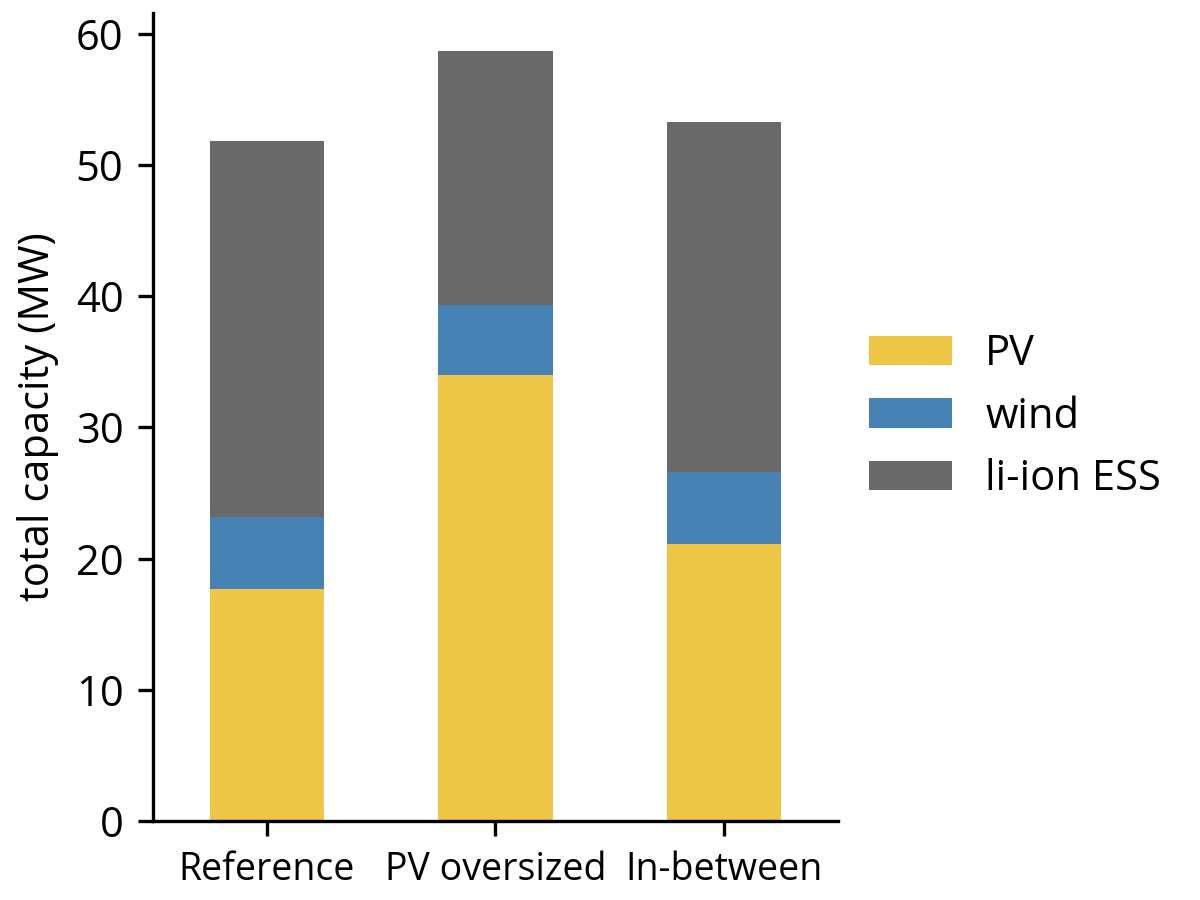
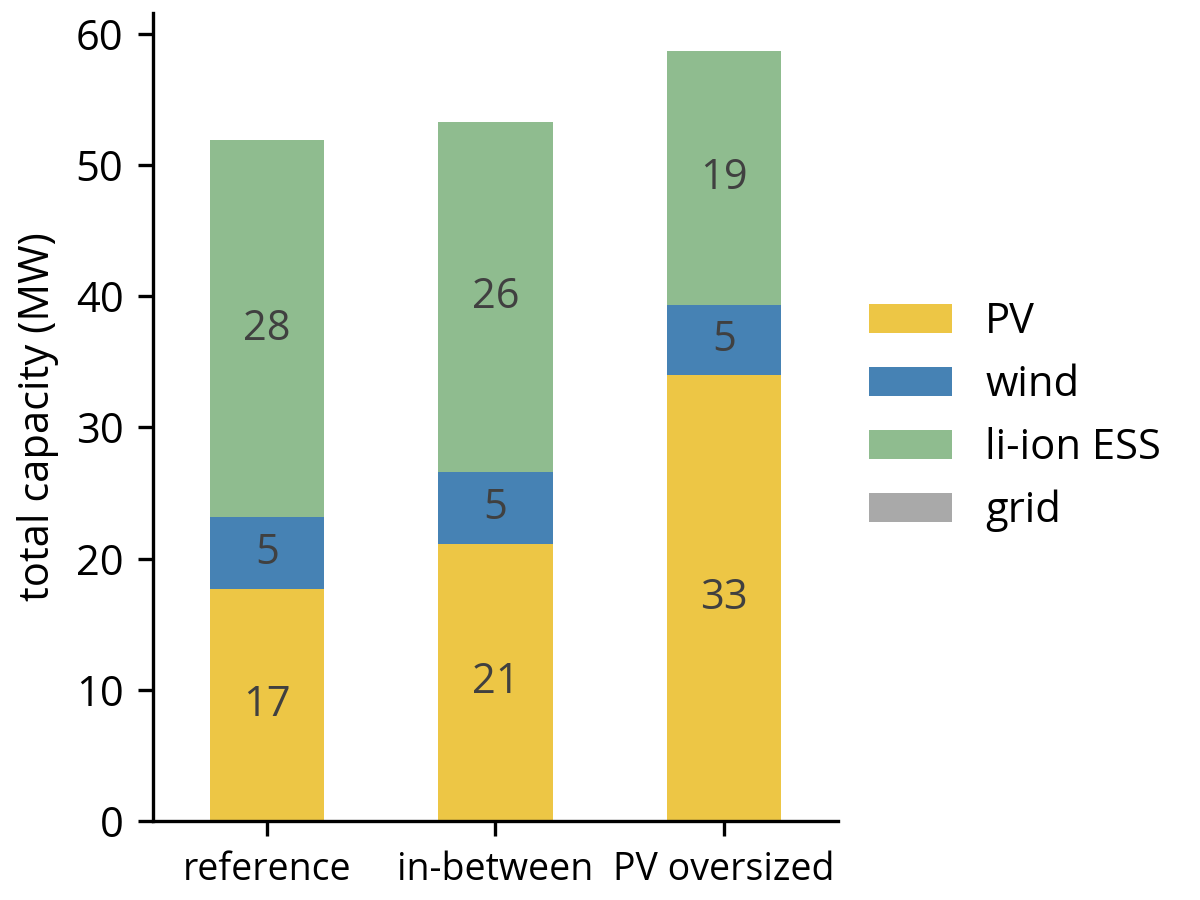
configuration stacked bar charts

diff --git a/thesis scripts/experiments/evhub/analysis/report_evhub_postprocess2_barcharts copy.py b/thesis scripts/experiments/evhub/analysis/report_evhub_postprocess2_barcharts copy.py
@@ -1,0 +1,161 @@
+# %%
+import pandas as pd
+import numpy as np
+from pathlib import Path
+import seaborn as sns
+import matplotlib.pyplot as plt
+
+from LESO.experiments.analysis import (
+    load_ema_leso_results,
+    open_leso_experiment_file,
+)
+from LESO.plotting import default_matplotlib_save, default_matplotlib_style
+
+#%% constants
+FOLDER = Path(__file__).parent
+FIG_FOLDER = FOLDER / "images"
+RESULT_FOLDER = FOLDER.parent / "results"
+
+run_id = 210907
+
+#%% load in results
+experiments, outcomes, db = load_ema_leso_results(
+    run_id=run_id, 
+    exp_prefix="evhub",
+    results_folder=RESULT_FOLDER)
+
+## needed for more kpis
+spec_yield_pv = 1025.307
+spec_yield_wind = 2937.6
+
+
+## pointers
+pv_col = "PV South installed capacity"
+wind_col = "Nordex N100 2500 installed capacity"
+bat_col = "2h battery installed capacity"
+
+## change / add some data
+db['pv_cost_absolute'] = db.pv_cost_factor * 1020
+db['wind_cost_absolute'] = db.wind_cost_factor * 1350
+db['curtailment'] = -db['curtailment']
+db['total_generation'] = (db[pv_col] * spec_yield_pv + db[wind_col]*spec_yield_wind)
+db['relative_curtailment'] = db['curtailment'] / db['total_generation'] *100
+db['total_installed_capacity'] = db[pv_col] + db[wind_col]
+
+
+def linear_map(value, ):
+    min, max = 0.41, 0.70 # @@
+    map_min, map_max = 0.42, 0.81 # @@
+
+    frac = (value - min) / (max-min)
+    m_value = frac * (map_max-map_min) + map_min
+
+    return m_value
+
+power_ref = 257
+storage_ref = 277
+
+db["battery_cost_absolute_2h"] = [
+    (bcf * storage_ref *2 + linear_map(bcf)*power_ref)/2
+    for bcf in db["battery_cost_factor"].values
+]
+
+
+#%% enter the loop:
+grid_capacities = {
+    0: 27.5,
+    0.5: 15,
+    1: 9,
+    1.5: 3,
+}
+
+ref_df = pd.DataFrame()
+
+for grid_cap, filter_limit in grid_capacities.items():
+    df = db.query(f"grid_capacity == {grid_cap}").copy(deep=True)
+
+    cols_of_interest = [pv_col, wind_col, bat_col]
+    df_barplot = pd.DataFrame(index=cols_of_interest)
+
+    # 3 configs for 0 grid cap
+    # max battery deployment
+    idx = df[bat_col].argmax()
+    df_barplot["reference"] = df.loc[df.index[idx],cols_of_interest].copy(deep=True)
+    # med battery deployment
+    subset = df[df[bat_col]< filter_limit]
+    subset_idx = subset[bat_col].argmax()
+    df_barplot["in-between"] = subset.loc[subset.index[subset_idx],cols_of_interest].copy(deep=True)
+        # max pv deployment
+    idx = df[pv_col].argmax()
+    df_barplot["PV oversized"] = df.loc[df.index[idx],cols_of_interest].copy(deep=True)
+
+    if grid_cap == 1.5:
+        org_order = df_barplot.columns
+        df_barplot.columns = ["in-between","reference", "PV oversized"]
+        df_barplot = df_barplot[org_order]
+
+    df_barplot.index = ['PV', 'wind', 'li-ion ESS']
+    df_barplot = df_barplot.T
+    df_barplot["grid"] = grid_cap
+
+    #%% PV Deployment vs absolut cost scatter
+    fig, ax = plt.subplots()
+    fig, ax = default_matplotlib_style(fig, ax, decrease_legend=False)
+    fig.set_size_inches(4,3)
+    color={"PV": "#edc645", "wind": "steelblue", 'li-ion ESS': "darkseagreen", "grid": "darkgrey"}
+    df_barplot.plot.bar(stacked=True, ax=ax, color=color)
+
+    ax.set_ylabel("total capacity (MW)")
+    ax.set_xticklabels(ax.get_xticklabels(), rotation = 0, fontsize=9)
+    ax.legend(
+        bbox_to_anchor=(1.02, 0.5),
+        loc=6,
+        borderaxespad=0.0,
+        frameon=False,
+    )
+
+
+    for c in ax.containers:
+
+        # Optional: if the segment is small or 0, customize the labels
+        if c.get_label() == "grid":
+            labels = [round(v.get_height(),1) if v.get_height() > 0 else '' for v in c]
+        else:
+            labels = [int(v.get_height()) if v.get_height() > 0.5 else '' for v in c]
+        
+        # remove the labels parameter if it's not needed for customized labels
+        ax.bar_label(c, labels=labels, label_type='center', color="#404040")
+
+    default_matplotlib_save(fig, FIG_FOLDER / f"report_evhub_grid-{grid_cap}_configurations.png")
+
+    ref_df[f'{grid_cap} MW'] = df_barplot.T['reference']
+
+fig, ax = plt.subplots()
+fig, ax = default_matplotlib_style(fig, ax, decrease_legend=False)
+fig.set_size_inches(4,3)
+color={"PV": "#edc645", "wind": "steelblue", 'li-ion ESS': "darkseagreen", "grid": "darkgrey"}
+ref_df.T.plot.bar(stacked=True, ax=ax, color=color)
+
+ax.set_ylabel("total capacity (MW)")
+ax.set_xticklabels(ax.get_xticklabels(), rotation = 0, fontsize=9)
+ax.legend(
+    bbox_to_anchor=(1.02, 0.5),
+    loc=6,
+    borderaxespad=0.0,
+    frameon=False,
+)
+
+
+for c in ax.containers:
+
+    # Optional: if the segment is small or 0, customize the labels
+    if c.get_label() == "grid":
+        labels = [round(v.get_height(),1) if v.get_height() > 0 else '' for v in c]
+    else:
+        labels = [int(v.get_height()) if v.get_height() > 0.5 else '' for v in c]
+    
+    # remove the labels parameter if it's not needed for customized labels
+    ax.bar_label(c, labels=labels, label_type='center', color="#404040")
+
+default_matplotlib_save(fig, FIG_FOLDER / f"report_evhub_grid_configurations_compare.png")
+

diff --git a/thesis scripts/experiments/evhub/analysis/report_evhub_postprocess2_barcharts.py b/thesis scripts/experiments/evhub/analysis/report_evhub_postprocess2_barcharts.py
@@ -24,6 +24,8 @@ experiments, outcomes, db = load_ema_leso_results(
     exp_prefix="evhub",
     results_folder=RESULT_FOLDER)
 
+# ==========================================================================================
+
 grid_cap = 0
 ## data selection
 
@@ -102,6 +104,106 @@ ax.legend(
     frameon=False,
 )
 
+
+for c in ax.containers:
+
+    # Optional: if the segment is small or 0, customize the labels
+    labels = [int(round(v.get_height(),0)) if v.get_height() > 0 else '' for v in c]
+    
+    # remove the labels parameter if it's not needed for customized labels
+    ax.bar_label(c, labels=labels, label_type='center', color="white")
+
 default_matplotlib_save(fig, FIG_FOLDER / f"report_evhub_grid-{grid_cap}_configurations.png")
 
 # %%
+# ==========================================================================================
+
+grid_cap = 0.5
+## data selection
+
+df = db.query(f"grid_capacity == {grid_cap}").copy(deep=True)
+
+## needed for more kpis
+spec_yield_pv = 1025.307
+spec_yield_wind = 2937.6
+
+## pointers
+pv_col = "PV South installed capacity"
+wind_col = "Nordex N100 2500 installed capacity"
+bat_col = "2h battery installed capacity"
+
+## change / add some data
+df['pv_cost_absolute'] = df.pv_cost_factor * 1020
+df['wind_cost_absolute'] = df.wind_cost_factor * 1350
+df['curtailment'] = -df['curtailment']
+df['total_generation'] = (df[pv_col] * spec_yield_pv + df[wind_col]*spec_yield_wind)
+df['relative_curtailment'] = df['curtailment'] / df['total_generation'] *100
+df['total_installed_capacity'] = df[pv_col] + df[wind_col]
+
+
+def linear_map(value, ):
+    min, max = 0.41, 0.70 # @@
+    map_min, map_max = 0.42, 0.81 # @@
+
+    frac = (value - min) / (max-min)
+    m_value = frac * (map_max-map_min) + map_min
+
+    return m_value
+
+power_ref = 257
+storage_ref = 277
+
+df["battery_cost_absolute_2h"] = [
+    (bcf * storage_ref *2 + linear_map(bcf)*power_ref)/2
+    for bcf in df["battery_cost_factor"].values
+]
+#%%
+
+cols_of_interest = [pv_col, wind_col, bat_col]
+df_barplot = pd.DataFrame(index=cols_of_interest)
+
+# 3 configs for 0 grid cap
+# max battery deployment
+idx = df[bat_col].argmax()
+df_barplot["Reference"] = df.loc[df.index[idx],cols_of_interest].copy(deep=True)
+# max pv deployment
+idx = df[pv_col].argmax()
+df_barplot["PV oversized"] = df.loc[df.index[idx],cols_of_interest].copy(deep=True)
+# med battery deployment
+subset = df[df[bat_col]< 15]
+subset_idx = subset[bat_col].argmax()
+df_barplot["In-between"] = subset.loc[subset.index[subset_idx],cols_of_interest].copy(deep=True)
+
+df_barplot.index = ['PV', 'wind', 'li-ion ESS']
+df_barplot = df_barplot.T
+df_barplot["grid"] = grid_cap
+
+#%% PV Deployment vs absolut cost scatter
+fig, ax = plt.subplots()
+fig, ax = default_matplotlib_style(fig, ax, decrease_legend=False)
+fig.set_size_inches(4,3)
+color={"PV": "#edc645", "wind": "steelblue", 'li-ion ESS': "darkseagreen", "grid": "darkgrey"}
+df_barplot.plot.bar(stacked=True, ax=ax, color=color)
+
+ax.set_ylabel("total capacity (MW)")
+ax.set_xticklabels(ax.get_xticklabels(), rotation = 0, fontsize=9)
+ax.legend(
+    bbox_to_anchor=(1.02, 0.5),
+    loc=6,
+    borderaxespad=0.0,
+    frameon=False,
+)
+
+
+for c in ax.containers:
+
+    # Optional: if the segment is small or 0, customize the labels
+    if c.get_label() == "grid":
+        labels = [round(v.get_height(),1) if v.get_height() > 0 else '' for v in c]
+    else:
+        labels = [int(v.get_height()) if v.get_height() > 0 else '' for v in c]
+    
+    # remove the labels parameter if it's not needed for customized labels
+    ax.bar_label(c, labels=labels, label_type='center', color="#404040")
+
+default_matplotlib_save(fig, FIG_FOLDER / f"report_evhub_grid-{grid_cap}_configurations.png")
